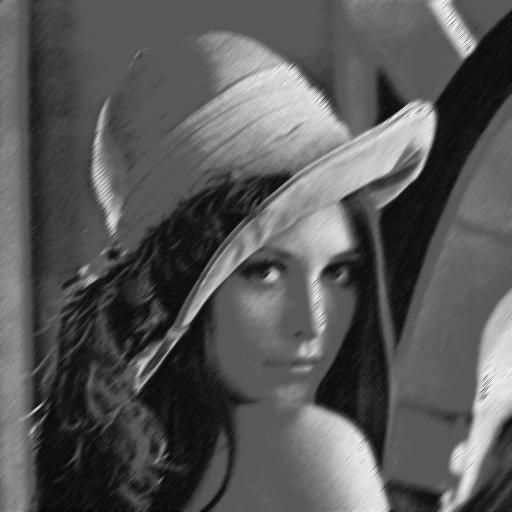
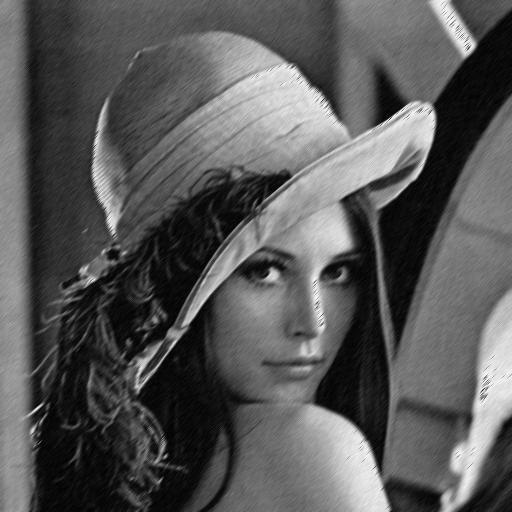
s

diff --git a/src/main/java/src/main/java/Image.java b/src/main/java/src/main/java/Image.java
@@ -35,25 +35,14 @@ public class Image {
     //Ajoute un bruit gaussien de variance sigma
     public void noising() {
         this.noisedmatrix = new int[this.matrix.length][this.matrix[0].length];
-        
-        // Appliquer le bruitage à chaque pixel de l'image
-        for (int i = 0; i < this.matrix.length; i++) {
-            for (int j = 0; j < this.matrix[0].length; j++) {
-                // Ajouter un bruit aléatoire au pixel
-                int noise = (int) (Math.random() * 256); // Valeur de bruit aléatoire entre 0 et 255
-                
-                // Ajouter le bruit au pixel d'origine
-                int noisedPixel = this.matrix[i][j] + noise;
-                
-                // Assurer que la valeur du pixel bruité reste dans la plage des valeurs de gris (entre 0 et 255)
-                noisedPixel = Math.max(0, Math.min(255, noisedPixel));
-                
-                // Stocker le pixel bruité dans la matrice bruitée
-                this.noisedmatrix[i][j] = noisedPixel;
+        Random rand = new Random(123);
+        for (int i=0; i<this.matrix.length; i++) {
+            for (int j = 0; j<this.matrix[0].length; j++) {
+                int coef = this.matrix[i][j];
+                this.noisedmatrix[i][j] = Math.abs((coef + (int) (rand.nextGaussian()*sigma))%255); 
             }
         }
     }
-    
 
     //Créer une matrice à partir d'un fichier image
     public static int[][] createMatrix(String path) {

diff --git a/src/main/java/src/main/java/Main.java b/src/main/java/src/main/java/Main.java
@@ -12,7 +12,7 @@ public class Main {
       Image image = new Image("src/main/img/lenaa.png", sigma, taille);
       image.noising();
       BufferedImage sigma10 = Image.createImageFromMatrix(image.getNoisedMatrix());
-      Image.createfile(sigma10, "test10");
+      Image.createfile(sigma10, "test11");
       Seuillage seuillage = new Seuillage(image);
       int choixMethode = chooseMethode();
       int choixSeuil = chooseSeuil();
